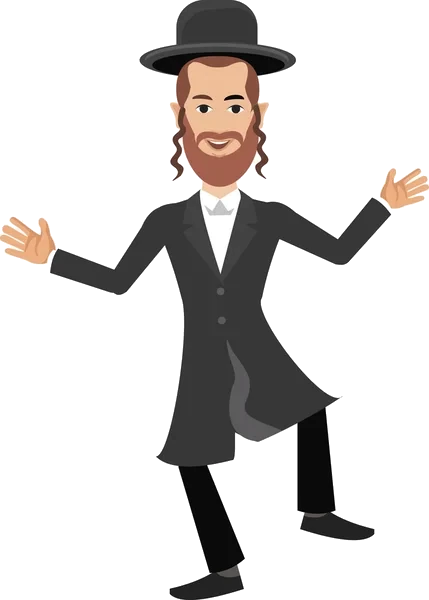
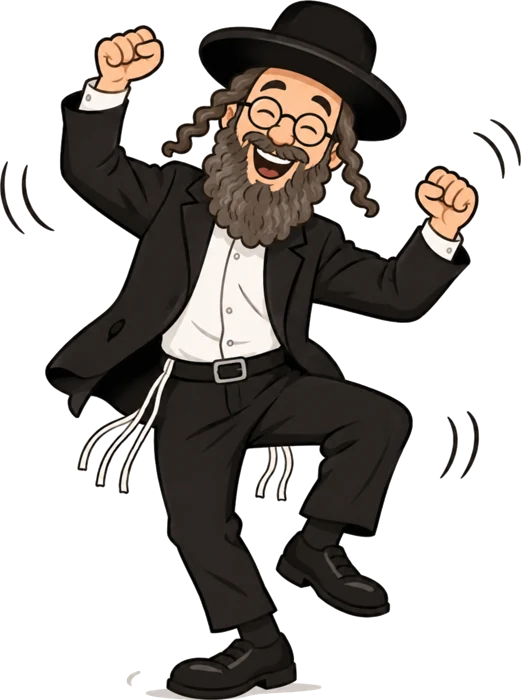
Koscher-Quiz: neue Figur (lizenziert) freigestellt
Claude-Session: https://claude.ai/code/session_018X9jqc1mvSShomCNL5QiE4

diff --git a/app/koscher/KosherQuiz.tsx b/app/koscher/KosherQuiz.tsx
@@ -38,8 +38,8 @@ export function KosherQuiz() {
     let alive = true;
     (async () => {
       try {
-        if (!window.QUESTIONS) await load("/koscher/data.js?v=4");
-        if (!window.mountKosher) await load("/koscher/app.js?v=4");
+        if (!window.QUESTIONS) await load("/koscher/data.js?v=5");
+        if (!window.mountKosher) await load("/koscher/app.js?v=5");
         if (alive && ref.current && window.mountKosher) cleanup = window.mountKosher(ref.current);
       } catch {
         if (alive) setFailed(true);

diff --git a/public/koscher/app.js b/public/koscher/app.js
@@ -56,7 +56,7 @@ window.mountKosher = function (app) {
           </div>
           <div class="stage">
             <div class="disc" aria-hidden="true"></div>
-            <img class="figur" src="/koscher/figur.webp" alt="" width="429" height="600" />
+            <img class="figur" src="/koscher/figur.webp?v=2" alt="" width="521" height="700" />
             <div class="probe">
               <small>${esc(cat)}</small>
               <p>${esc(item)}</p>
